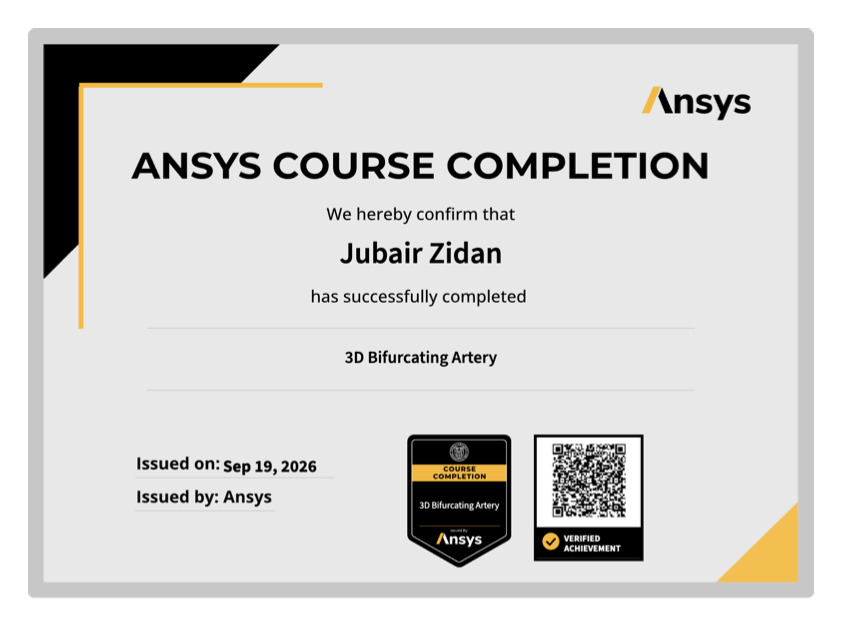
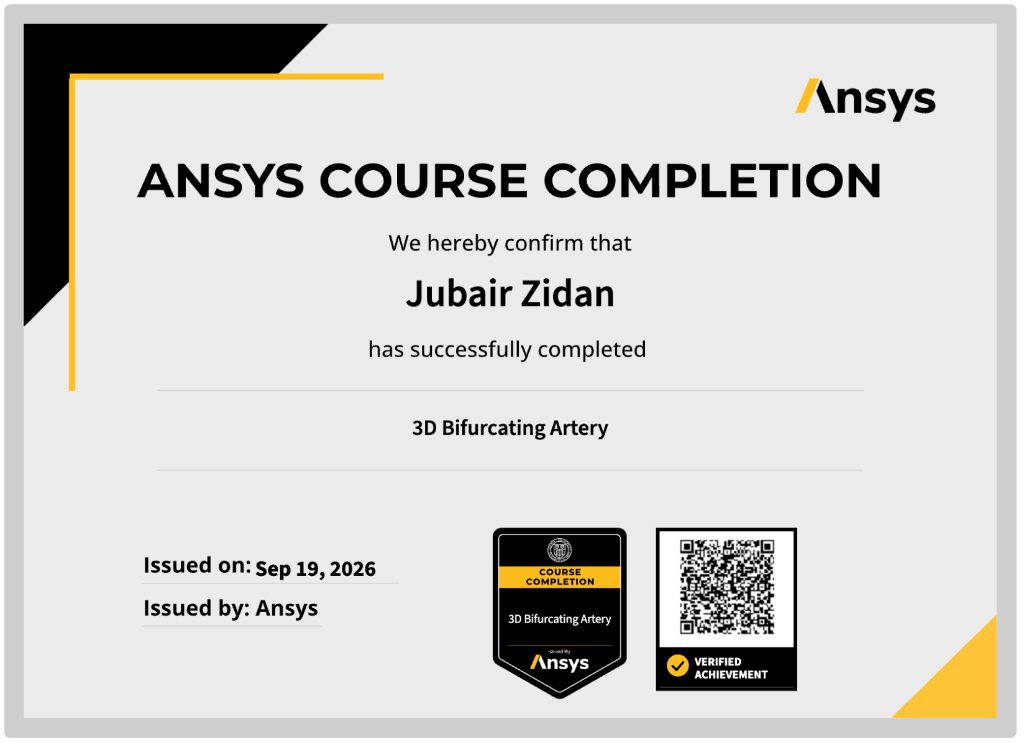
feat(awards): add Ansys 3D Bifurcating Artery course certification

diff --git a/src/data/portfolioData.js b/src/data/portfolioData.js
@@ -693,6 +693,7 @@ export const awardsData = {
       date: "September 23, 2026",
       certId: "AWUEPMZAJE64",
       verificationUrl: "https://coursera.org/verify/AWUEPMZAJE64",
+      pdfUrl: "/docs/Vanderbilt_MATLAB_Certificate_Jubair_Zidan.pdf",
       imageUrl: "/images/real_certs/cert_vanderbilt_matlab.png",
       category: "course",
       description: "Official Course Certificate authorized by Vanderbilt University and offered through Coursera, awarded to Md. Jubair Uddin Zidan on September 23, 2026 (Verification ID: AWUEPMZAJE64). Instructed by Dr. Akos Ledeczi and Dr. J. Michael Fitzpatrick (Professors of Computer Engineering, Computer Science, and Electrical Engineering). Comprehensive training in computer programming fundamentals, recursive algorithms, modular functions, file I/O operations, multidimensional matrix indexing, and computational problem-solving."
@@ -704,9 +705,22 @@ export const awardsData = {
       field: "Computational Fluid Dynamics (CFD) & Hemodynamics",
       year: "Sep 2026",
       date: "September 15, 2026",
+      pdfUrl: "/docs/Ansys_3D_Bifurcating_Artery_Steady_Certificate.pdf",
       imageUrl: "/images/real_certs/cert_ansys_artery_steady.png",
       category: "course",
       description: "Official Ansys Course Completion Certificate confirmed on September 15, 2026. Specialized CFD simulation in Ansys Fluent modeling steady laminar blood flow dynamics across an anatomical 3D bifurcating artery. Explored boundary layer meshing, non-Newtonian blood rheology, wall shear stress (WSS) distributions, recirculation zone identification, and hemodynamic pressure losses."
+    },
+    {
+      id: "cert-ansys-artery",
+      title: "3D Bifurcating Artery",
+      issuer: "Ansys Innovation Courses",
+      field: "Computational Fluid Dynamics (CFD) & Hemodynamics",
+      year: "Sep 2026",
+      date: "September 19, 2026",
+      pdfUrl: "/docs/Ansys_3D_Bifurcating_Artery_Certificate.pdf",
+      imageUrl: "/images/real_certs/cert_ansys_artery.png",
+      category: "course",
+      description: "Official Ansys Course Completion Certificate confirmed on September 19, 2026. Advanced computational biofluid dynamics simulation in Ansys Fluent modeling complete hemodynamic flow fields within an anatomical 3D bifurcating artery. Covers vascular geometry preparation, multi-block unstructured meshing with prism boundary layers, non-Newtonian blood viscosity models, arterial wall shear stress (WSS) profiling, and velocity vectors."
     },
     {
       id: "cert-mathworks-simulink-onramp",
@@ -780,6 +794,7 @@ export const awardsData = {
       date: "September 23, 2026",
       certId: "AWUEPMZAJE64",
       verificationUrl: "https://coursera.org/verify/AWUEPMZAJE64",
+      pdfUrl: "/docs/Vanderbilt_MATLAB_Certificate_Jubair_Zidan.pdf",
       imageUrl: "/images/real_certs/cert_vanderbilt_matlab.png",
       category: "course",
       description: "Official Course Certificate authorized by Vanderbilt University and offered through Coursera, awarded to Md. Jubair Uddin Zidan on September 23, 2026 (Verification ID: AWUEPMZAJE64). Instructed by Dr. Akos Ledeczi and Dr. J. Michael Fitzpatrick (Professors of Computer Engineering, Computer Science, and Electrical Engineering). Comprehensive training in computer programming fundamentals, recursive algorithms, modular functions, file I/O operations, multidimensional matrix indexing, and computational problem-solving."
@@ -791,9 +806,22 @@ export const awardsData = {
       field: "Computational Fluid Dynamics (CFD) & Hemodynamics",
       year: "Sep 2026",
       date: "September 15, 2026",
+      pdfUrl: "/docs/Ansys_3D_Bifurcating_Artery_Steady_Certificate.pdf",
       imageUrl: "/images/real_certs/cert_ansys_artery_steady.png",
       category: "course",
       description: "Official Ansys Course Completion Certificate confirmed on September 15, 2026. Specialized CFD simulation in Ansys Fluent modeling steady laminar blood flow dynamics across an anatomical 3D bifurcating artery. Explored boundary layer meshing, non-Newtonian blood rheology, wall shear stress (WSS) distributions, recirculation zone identification, and hemodynamic pressure losses."
+    },
+    {
+      id: "cert-ansys-artery",
+      title: "3D Bifurcating Artery",
+      issuer: "Ansys Innovation Courses",
+      field: "Computational Fluid Dynamics (CFD) & Hemodynamics",
+      year: "Sep 2026",
+      date: "September 19, 2026",
+      pdfUrl: "/docs/Ansys_3D_Bifurcating_Artery_Certificate.pdf",
+      imageUrl: "/images/real_certs/cert_ansys_artery.png",
+      category: "course",
+      description: "Official Ansys Course Completion Certificate confirmed on September 19, 2026. Advanced computational biofluid dynamics simulation in Ansys Fluent modeling complete hemodynamic flow fields within an anatomical 3D bifurcating artery. Covers vascular geometry preparation, multi-block unstructured meshing with prism boundary layers, non-Newtonian blood viscosity models, arterial wall shear stress (WSS) profiling, and velocity vectors."
     },
     {
       id: "cert-mathworks-simulink-onramp",
